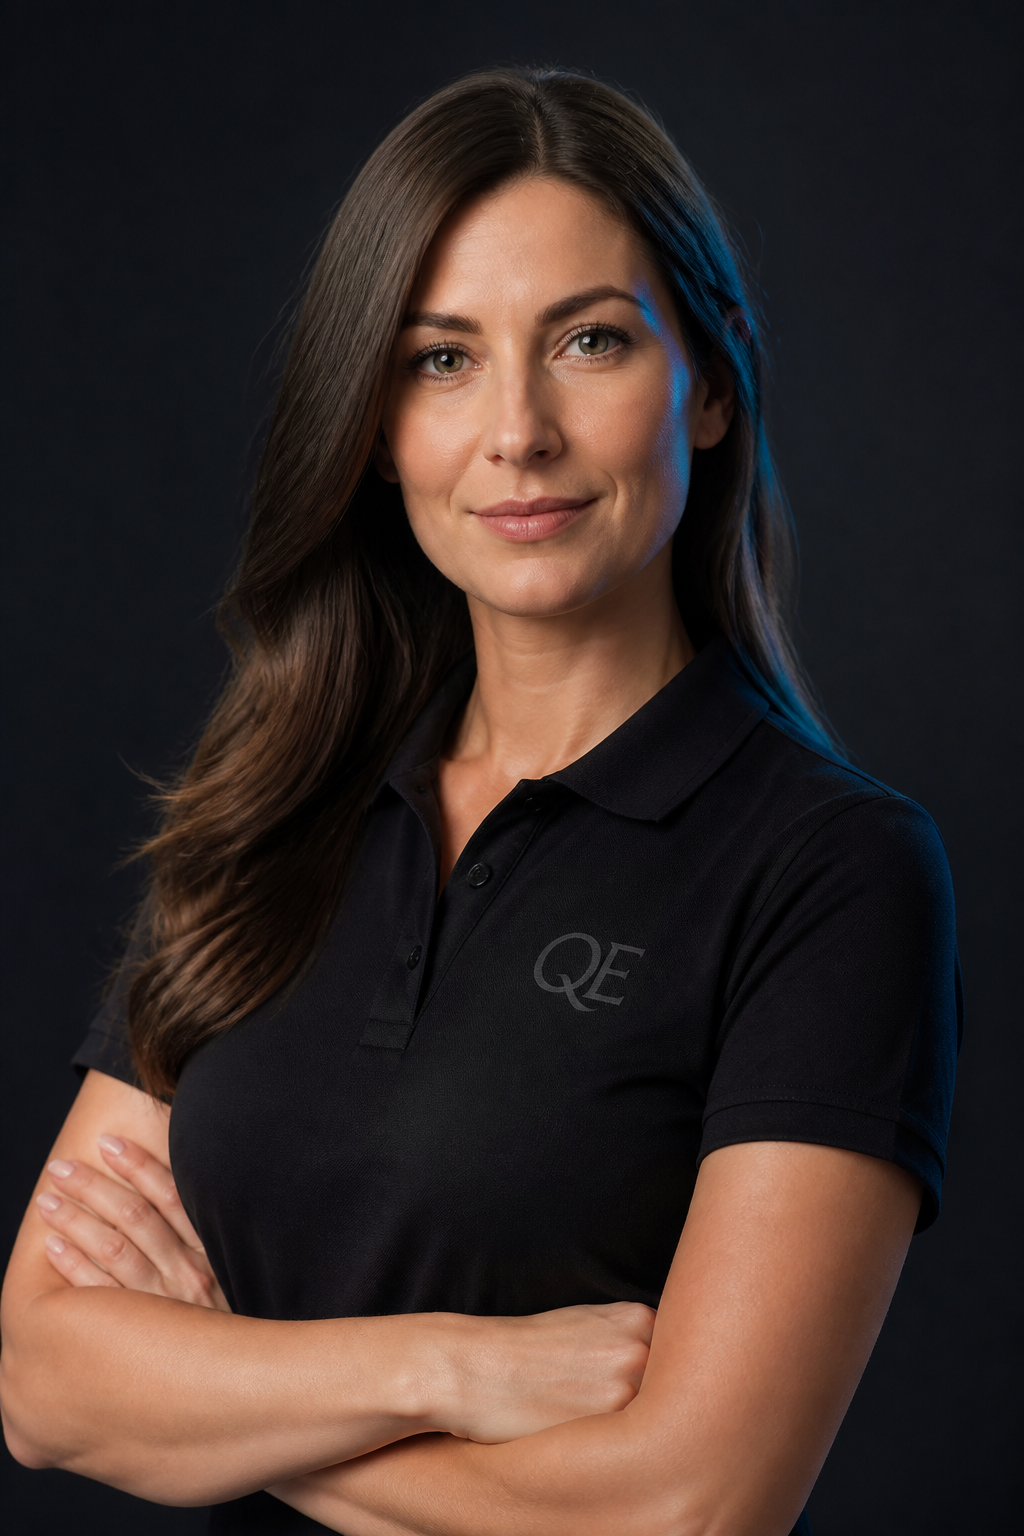
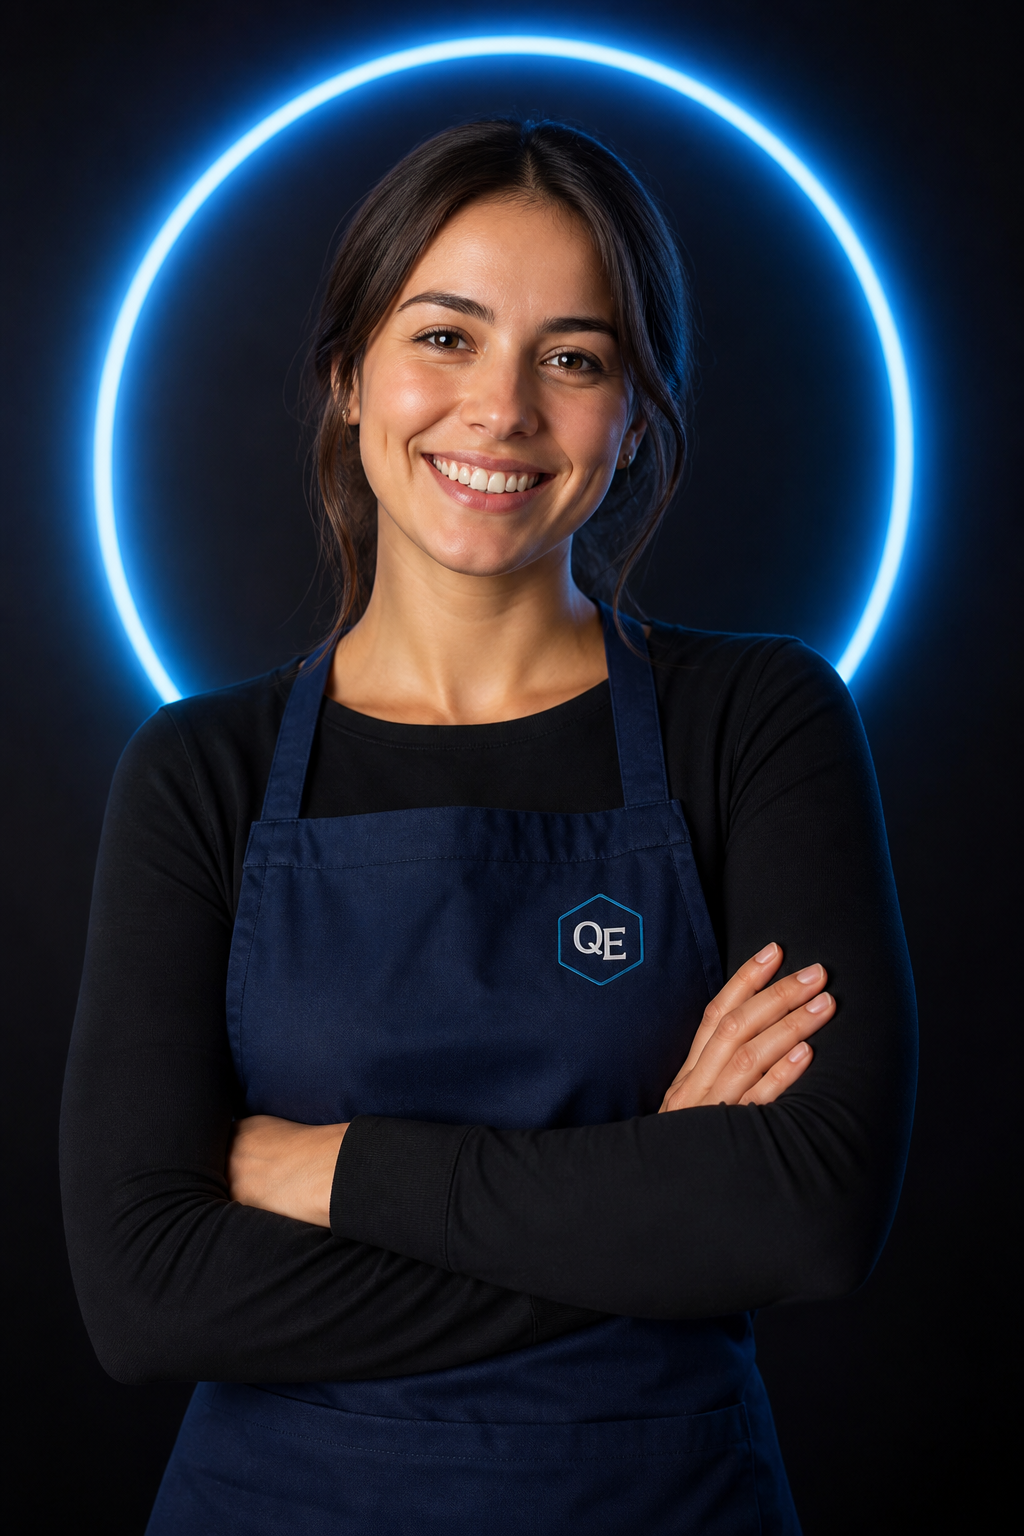
Rebuild sign-in to match mockup (no Google).
New apron/neon hero + phone, POS headline, globe footer; UI 1.2.38.

diff --git a/apps/web/src/pages/SignIn.tsx b/apps/web/src/pages/SignIn.tsx
@@ -8,6 +8,7 @@ import {
   Shield,
   Zap,
   BarChart3,
+  Globe,
 } from "lucide-react";
 import api, { auth } from "../api";
 import { BrandLogo, BRAND } from "../components/BrandLogo";
@@ -177,87 +178,90 @@ export default function SignIn() {
   ];
 
   const fieldClass =
-    "w-full h-12 rounded-xl bg-[#0b1220] border border-[#1e2a3a] text-white placeholder:text-slate-500 pl-11 pr-4 text-sm outline-none focus:border-sky-500/70 focus:ring-1 focus:ring-sky-500/40 transition";
+    "w-full h-12 rounded-xl bg-[#0c121c] border border-[#243044] text-white placeholder:text-slate-500 pl-11 pr-4 text-sm outline-none focus:border-[#2b8cff] focus:ring-1 focus:ring-[#2b8cff]/35 transition";
 
   return (
-    <div className="h-[100dvh] max-h-[100dvh] grid lg:grid-cols-2 overflow-hidden auth-fade bg-black text-white">
-      {/* —— Left: brand panel (matches design mockup) —— */}
+    <div className="h-[100dvh] max-h-[100dvh] grid lg:grid-cols-2 overflow-hidden auth-fade bg-[#05070b] text-white">
+      {/* —— Left brand panel (mockup layout) —— */}
       <aside className="hidden lg:flex relative flex-col min-h-0 overflow-hidden">
         <div
           className="absolute inset-0 pointer-events-none"
           style={{
             background:
-              "radial-gradient(ellipse 55% 50% at 72% 42%, rgba(14,165,233,0.28), transparent 58%), radial-gradient(ellipse 40% 35% at 20% 70%, rgba(56,189,248,0.08), transparent 50%), #000000",
+              "radial-gradient(circle at 48% 38%, rgba(37,99,235,0.35), transparent 42%), radial-gradient(ellipse 70% 50% at 50% 100%, rgba(14,165,233,0.12), transparent 45%), #05070b",
           }}
         />
-        <div className="relative z-10 flex flex-col h-full px-10 xl:px-14 pt-10 pb-8">
+        {/* faint QE watermark */}
+        <div className="absolute inset-0 flex items-center justify-center pointer-events-none opacity-[0.04]">
+          <div className="text-[18rem] font-black tracking-tighter leading-none select-none">QE</div>
+        </div>
+
+        <div className="relative z-10 flex flex-col h-full px-10 xl:px-14 pt-9 pb-7">
           <BrandLogo variant="dark" size="md" showTagline />
 
-          <div className="auth-slide flex-1 grid grid-cols-[1fr_minmax(220px,46%)] gap-6 xl:gap-10 items-center min-h-0 py-8">
-            <div className="min-w-0">
-              <h1 className="text-[1.85rem] xl:text-[2.35rem] font-bold leading-[1.15] tracking-tight">
-                Welcome to{" "}
-                <span className="text-sky-400">{BRAND.name}</span> PVT.LTD.
-              </h1>
-              <p className="mt-4 text-slate-400 text-sm xl:text-[15px] leading-relaxed max-w-sm">
-                Advanced software solutions for a smarter tomorrow.
-              </p>
-              <ul className="mt-8 space-y-4">
-                {features.map((f) => (
-                  <li key={f.title} className="flex items-center gap-3.5">
-                    <span className="flex h-10 w-10 shrink-0 items-center justify-center rounded-xl bg-sky-500/10 text-sky-400 border border-sky-500/25">
-                      <f.icon size={18} />
-                    </span>
-                    <div>
-                      <div className="text-sm font-semibold text-white leading-none">{f.title}</div>
-                      <div className="text-xs text-slate-400 mt-1">{f.desc}</div>
-                    </div>
-                  </li>
-                ))}
-              </ul>
-            </div>
-
-            {/* Hero + phone composite */}
-            <div className="relative h-full min-h-[320px] max-h-[min(58vh,520px)] flex items-end justify-center">
-              <div className="absolute left-1/2 top-[18%] -translate-x-1/2 w-[85%] h-[70%] rounded-full bg-sky-500/25 blur-[70px] pointer-events-none" />
+          <div className="auth-slide flex-1 flex flex-col justify-center min-h-0 py-4">
+            {/* Hero composite: neon ring + woman + phone */}
+            <div className="relative mx-auto w-full max-w-[420px] h-[min(46vh,420px)] mb-5">
+              <div className="absolute left-1/2 top-[8%] -translate-x-1/2 w-[78%] aspect-square rounded-full border-[3px] border-sky-400/70 shadow-[0_0_40px_rgba(56,189,248,0.55),inset_0_0_40px_rgba(56,189,248,0.15)] pointer-events-none" />
+              <div className="absolute left-1/2 top-[14%] -translate-x-1/2 w-[68%] aspect-square rounded-full bg-sky-500/20 blur-3xl pointer-events-none" />
               <img
                 src="/signin-hero.png"
                 alt=""
-                className="relative z-[1] h-[92%] w-auto max-w-none object-contain object-bottom drop-shadow-[0_20px_50px_rgba(0,0,0,0.65)] select-none pointer-events-none"
+                className="absolute inset-0 z-[1] m-auto h-[88%] w-auto object-contain object-bottom drop-shadow-[0_24px_48px_rgba(0,0,0,0.7)] select-none pointer-events-none"
                 draggable={false}
               />
               <img
                 src="/signin-phone.png"
                 alt=""
-                className="absolute z-[2] right-[2%] bottom-[4%] w-[38%] max-w-[150px] drop-shadow-[0_18px_40px_rgba(14,165,233,0.45)] select-none pointer-events-none"
+                className="absolute z-[2] left-1/2 -translate-x-1/2 bottom-0 w-[32%] max-w-[128px] drop-shadow-[0_16px_36px_rgba(37,99,235,0.55)] select-none pointer-events-none"
                 draggable={false}
               />
             </div>
+
+            <h1 className="text-[1.75rem] xl:text-[2.15rem] font-bold leading-[1.2] tracking-tight max-w-xl">
+              Welcome to <span className="text-[#3b9eff]">{BRAND.name}</span> point of sale system
+            </h1>
+            <p className="mt-3 text-slate-400 text-sm xl:text-[15px] max-w-md">
+              Advanced software solutions for a smarter tomorrow.
+            </p>
+
+            <ul className="mt-6 space-y-3.5">
+              {features.map((f) => (
+                <li key={f.title} className="flex items-center gap-3.5">
+                  <span className="flex h-10 w-10 shrink-0 items-center justify-center rounded-xl bg-[#0e1a2e] text-[#3b9eff] border border-[#1e3a5f]">
+                    <f.icon size={18} />
+                  </span>
+                  <div>
+                    <div className="text-sm font-semibold text-white leading-none">{f.title}</div>
+                    <div className="text-xs text-slate-400 mt-1">{f.desc}</div>
+                  </div>
+                </li>
+              ))}
+            </ul>
           </div>
 
-          <footer className="text-[11px] text-slate-500 space-y-1">
+          <footer className="space-y-1.5 text-[11px] text-slate-500">
             <a
               href={BRAND.siteUrl}
               target="_blank"
               rel="noreferrer"
-              className="text-sky-400 hover:text-sky-300 font-medium"
+              className="inline-flex items-center gap-2 text-[#3b9eff] hover:text-sky-300 font-medium"
             >
+              <Globe size={13} />
               www.{BRAND.site}
             </a>
-            <div>
-              © 2025 {BRAND.name} Pvt.Ltd. All rights reserved.
-            </div>
+            <div>© 2025 {BRAND.name} Pvt.Ltd. All rights reserved.</div>
           </footer>
         </div>
       </aside>
 
-      {/* —— Right: login card —— */}
+      {/* —— Right login card —— */}
       <div className="min-h-0 h-[100dvh] lg:h-auto overflow-y-auto overscroll-contain relative">
         <div
           className="absolute inset-0 pointer-events-none"
           style={{
             background:
-              "radial-gradient(ellipse 80% 55% at 50% -10%, rgba(14,165,233,0.22), transparent 55%), #020617",
+              "radial-gradient(ellipse 90% 55% at 50% 0%, rgba(37,99,235,0.28), transparent 55%), #05070b",
           }}
         />
         <div className="relative z-10 min-h-full flex justify-center px-5 sm:px-8 py-10 sm:py-14 safe-pb">
@@ -266,17 +270,17 @@ export default function SignIn() {
               <BrandLogo variant="dark" size="md" showTagline />
             </div>
 
-            <div className="rounded-2xl border border-white/[0.08] bg-[#0a1018]/95 backdrop-blur-md px-6 sm:px-8 py-8 shadow-[0_0_80px_rgba(14,165,233,0.14)]">
+            <div className="rounded-2xl border border-white/[0.07] bg-[#0a0f18]/95 backdrop-blur-md px-6 sm:px-8 py-8 shadow-[0_0_80px_rgba(37,99,235,0.18)]">
               {step === "login" ? (
                 <div className="text-center mb-8">
                   <div className="mx-auto mb-5 relative w-[68px] h-[68px]">
-                    <div className="absolute inset-0 rounded-full bg-sky-500/35 blur-2xl" />
-                    <div className="relative h-full w-full rounded-full bg-[#0d1520] border-2 border-sky-500/50 grid place-items-center text-sky-300 shadow-[0_0_24px_rgba(14,165,233,0.35)]">
+                    <div className="absolute inset-0 rounded-full bg-[#2b8cff]/40 blur-2xl" />
+                    <div className="relative h-full w-full rounded-full bg-[#0d1520] border-2 border-[#2b8cff]/60 grid place-items-center text-[#7ec8ff] shadow-[0_0_28px_rgba(43,140,255,0.4)]">
                       <User size={30} strokeWidth={1.6} />
                     </div>
                   </div>
                   <h2 className="text-[1.65rem] font-bold tracking-tight">
-                    Welcome <span className="text-sky-400">back!</span>
+                    Welcome <span className="text-[#3b9eff]">back!</span>
                   </h2>
                   <p className="mt-2 text-sm text-slate-400">Please log in to continue</p>
                 </div>
@@ -310,7 +314,7 @@ export default function SignIn() {
                     />
                   </div>
                   <button
-                    className="w-full h-12 rounded-xl font-bold text-white bg-[#0ea5e9] hover:bg-sky-400 transition disabled:opacity-60"
+                    className="w-full h-12 rounded-xl font-bold text-white bg-[#2b8cff] hover:bg-[#4a9dff] transition disabled:opacity-60"
                     disabled={loading}
                   >
                     {loading ? t("signin.validating") : t("signin.next")}
@@ -352,7 +356,7 @@ export default function SignIn() {
                     </div>
                   ))}
                   <button
-                    className="w-full h-12 rounded-xl font-bold text-white bg-[#0ea5e9] hover:bg-sky-400 transition disabled:opacity-60 mt-2"
+                    className="w-full h-12 rounded-xl font-bold text-white bg-[#2b8cff] hover:bg-[#4a9dff] transition disabled:opacity-60 mt-2"
                     disabled={loading}
                   >
                     {loading ? t("signin.registering") : t("signin.createAccount")}
@@ -424,13 +428,13 @@ export default function SignIn() {
                         type="checkbox"
                         checked={remember}
                         onChange={(e) => setRemember(e.target.checked)}
-                        className="h-4 w-4 rounded border-slate-600 bg-[#0b1220] text-sky-500 focus:ring-sky-500/40"
+                        className="h-4 w-4 rounded border-slate-600 bg-[#0c121c] text-[#2b8cff] focus:ring-[#2b8cff]/40"
                       />
                       Remember me
                     </label>
                     <button
                       type="button"
-                      className="text-sky-400 hover:text-sky-300 font-medium"
+                      className="text-[#3b9eff] hover:text-sky-300 font-medium"
                       onClick={() =>
                         notify.info("Contact your administrator to reset your password.")
                       }
@@ -441,19 +445,17 @@ export default function SignIn() {
 
                   <button
                     type="submit"
-                    className="w-full h-12 rounded-xl font-bold text-white bg-[#0ea5e9] hover:bg-sky-400 active:bg-sky-600 transition disabled:opacity-60 shadow-[0_10px_28px_rgba(14,165,233,0.4)]"
+                    className="w-full h-12 rounded-xl font-bold text-white bg-[#2b8cff] hover:bg-[#4a9dff] active:bg-[#1a7aef] transition disabled:opacity-60 shadow-[0_10px_28px_rgba(43,140,255,0.45)]"
                     disabled={loading}
                   >
                     {loading ? t("signin.signingIn") : "Log in"}
                   </button>
 
-                  {/* No Google / social login — design without Continue with Google */}
-
                   <p className="text-center text-sm text-slate-400 pt-2">
                     Don&apos;t have an account?{" "}
                     <button
                       type="button"
-                      className="font-semibold text-sky-400 hover:text-sky-300"
+                      className="font-semibold text-[#3b9eff] hover:text-sky-300"
                       onClick={() => {
                         setError("");
                         setMsg("");
@@ -468,7 +470,7 @@ export default function SignIn() {
             </div>
 
             <div className="mt-8 flex items-center justify-center gap-2 text-xs text-slate-500">
-              <Shield size={14} className="text-sky-500" />
+              <Shield size={14} className="text-[#2b8cff]" />
               <span>Secure. Reliable. Scalable.</span>
               <span className="text-slate-600">· v{APP_VERSION}</span>
             </div>

diff --git a/apps/web/src/version.ts b/apps/web/src/version.ts
@@ -1,2 +1,2 @@
 /** Single source of truth for UI version labels (sidebar, About, Sign-in). */
-export const APP_VERSION = "1.2.37";
+export const APP_VERSION = "1.2.38";
